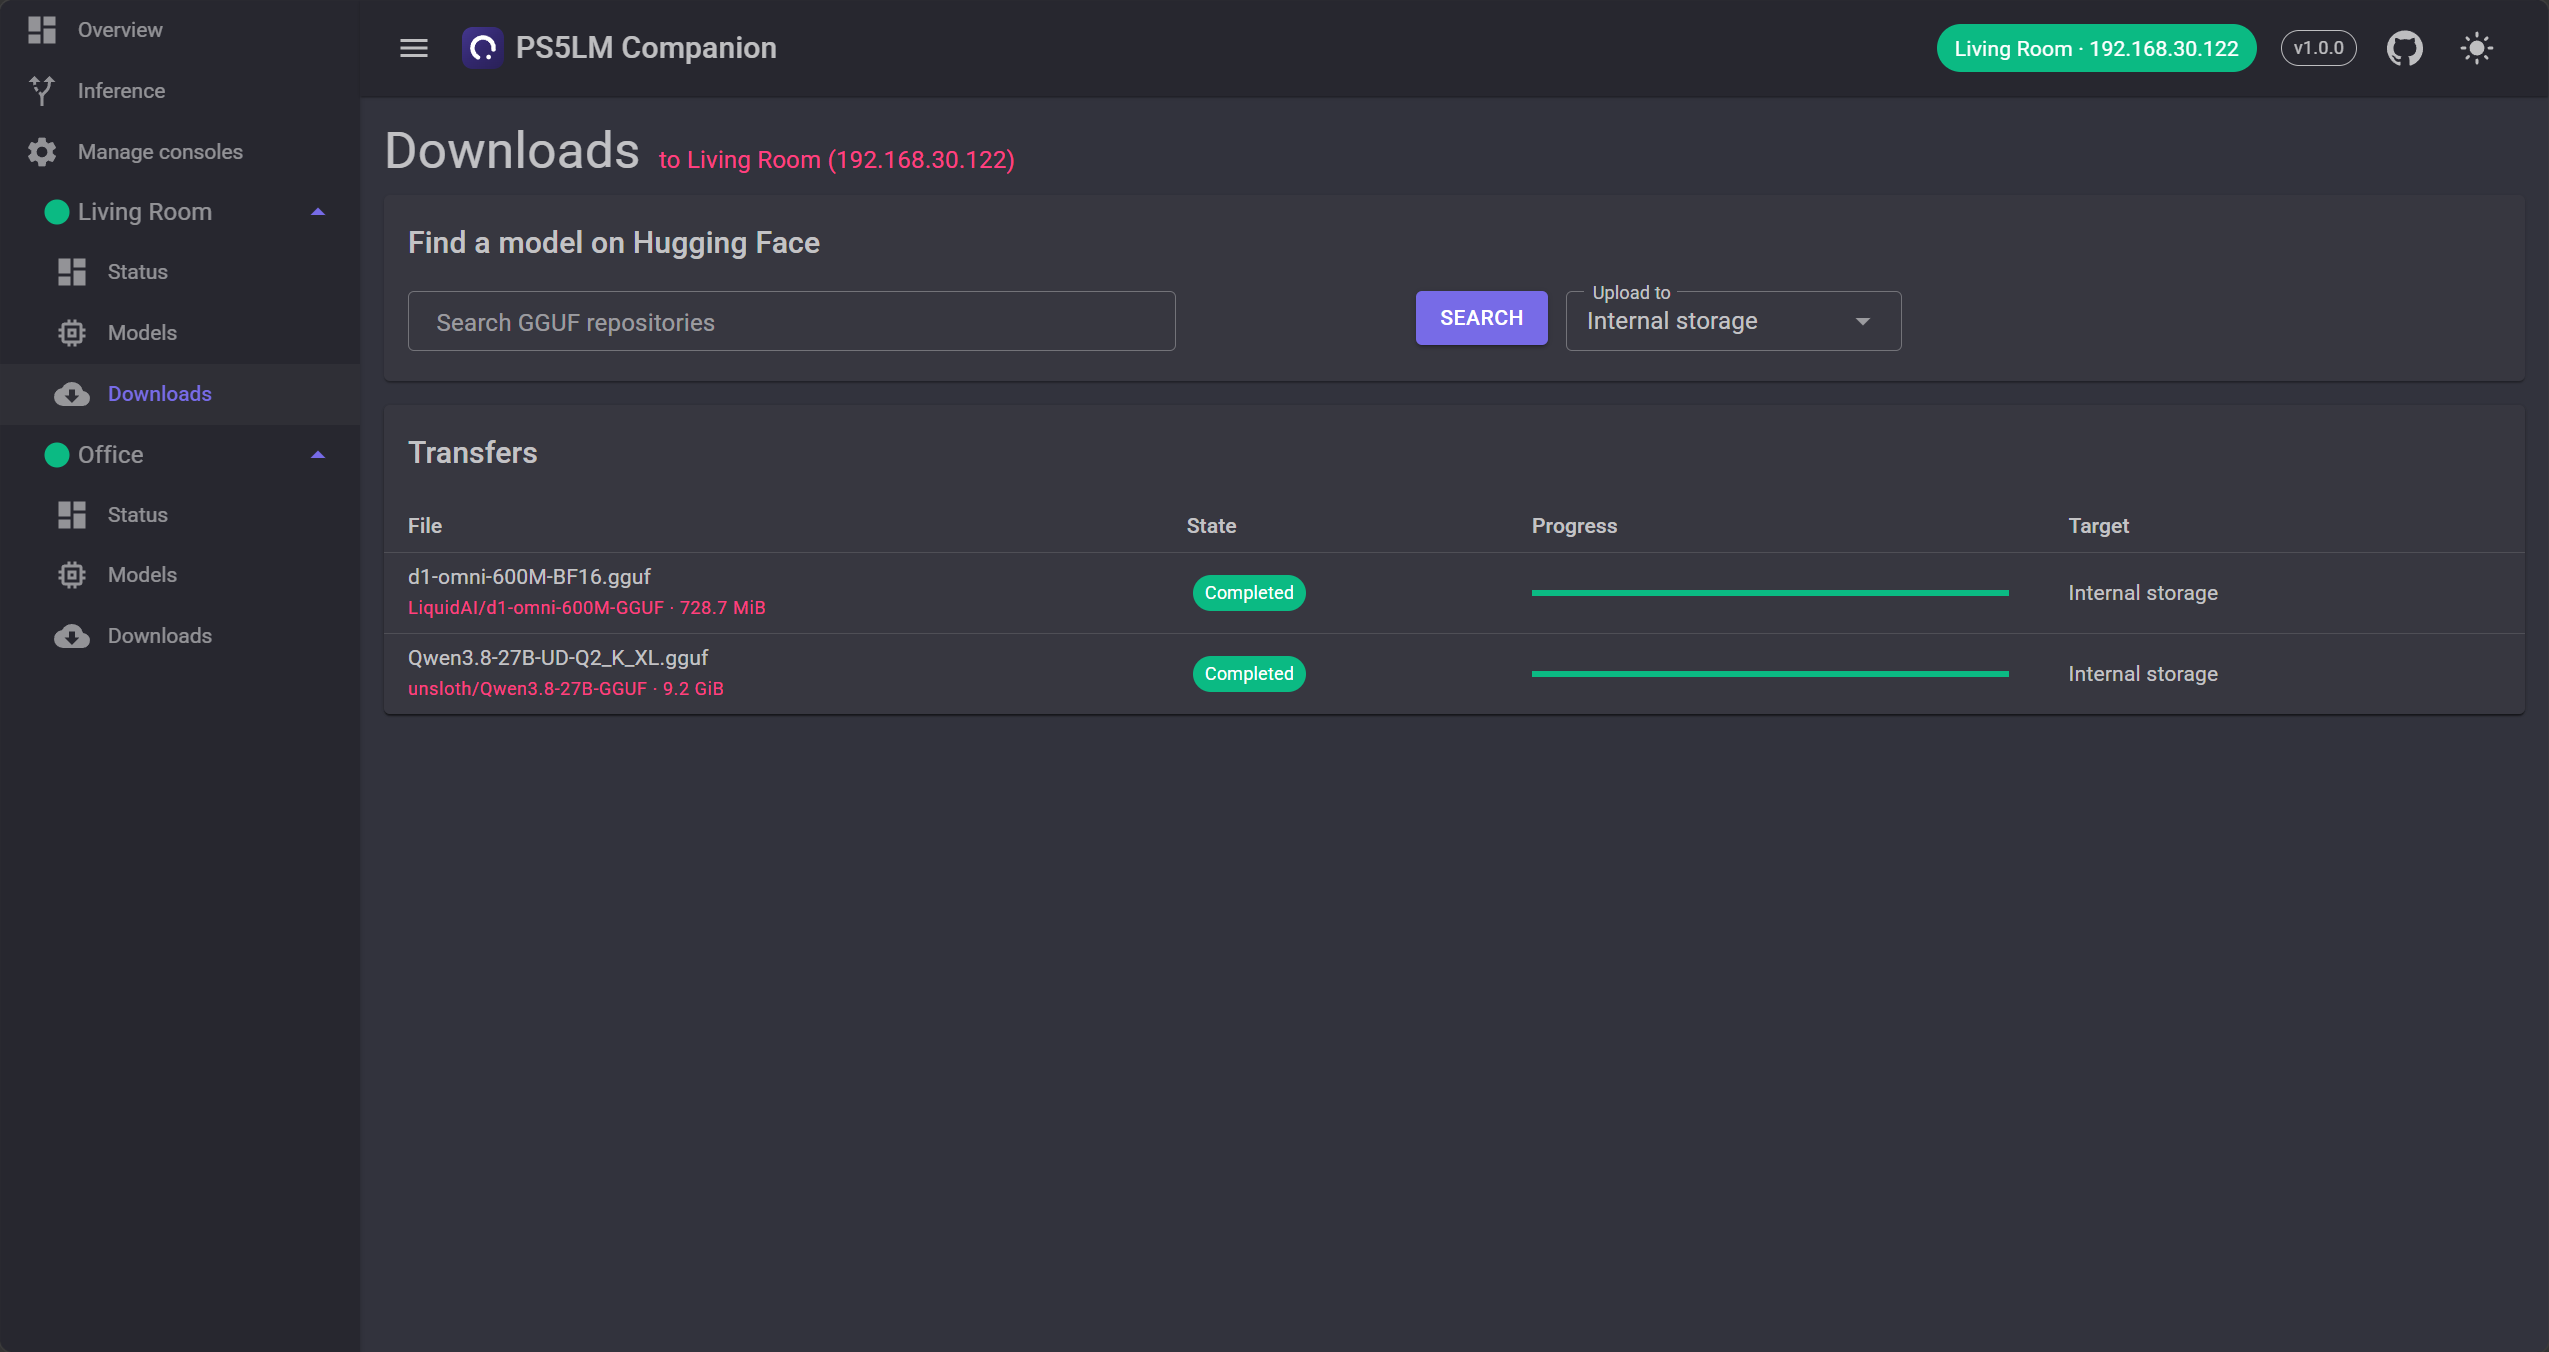
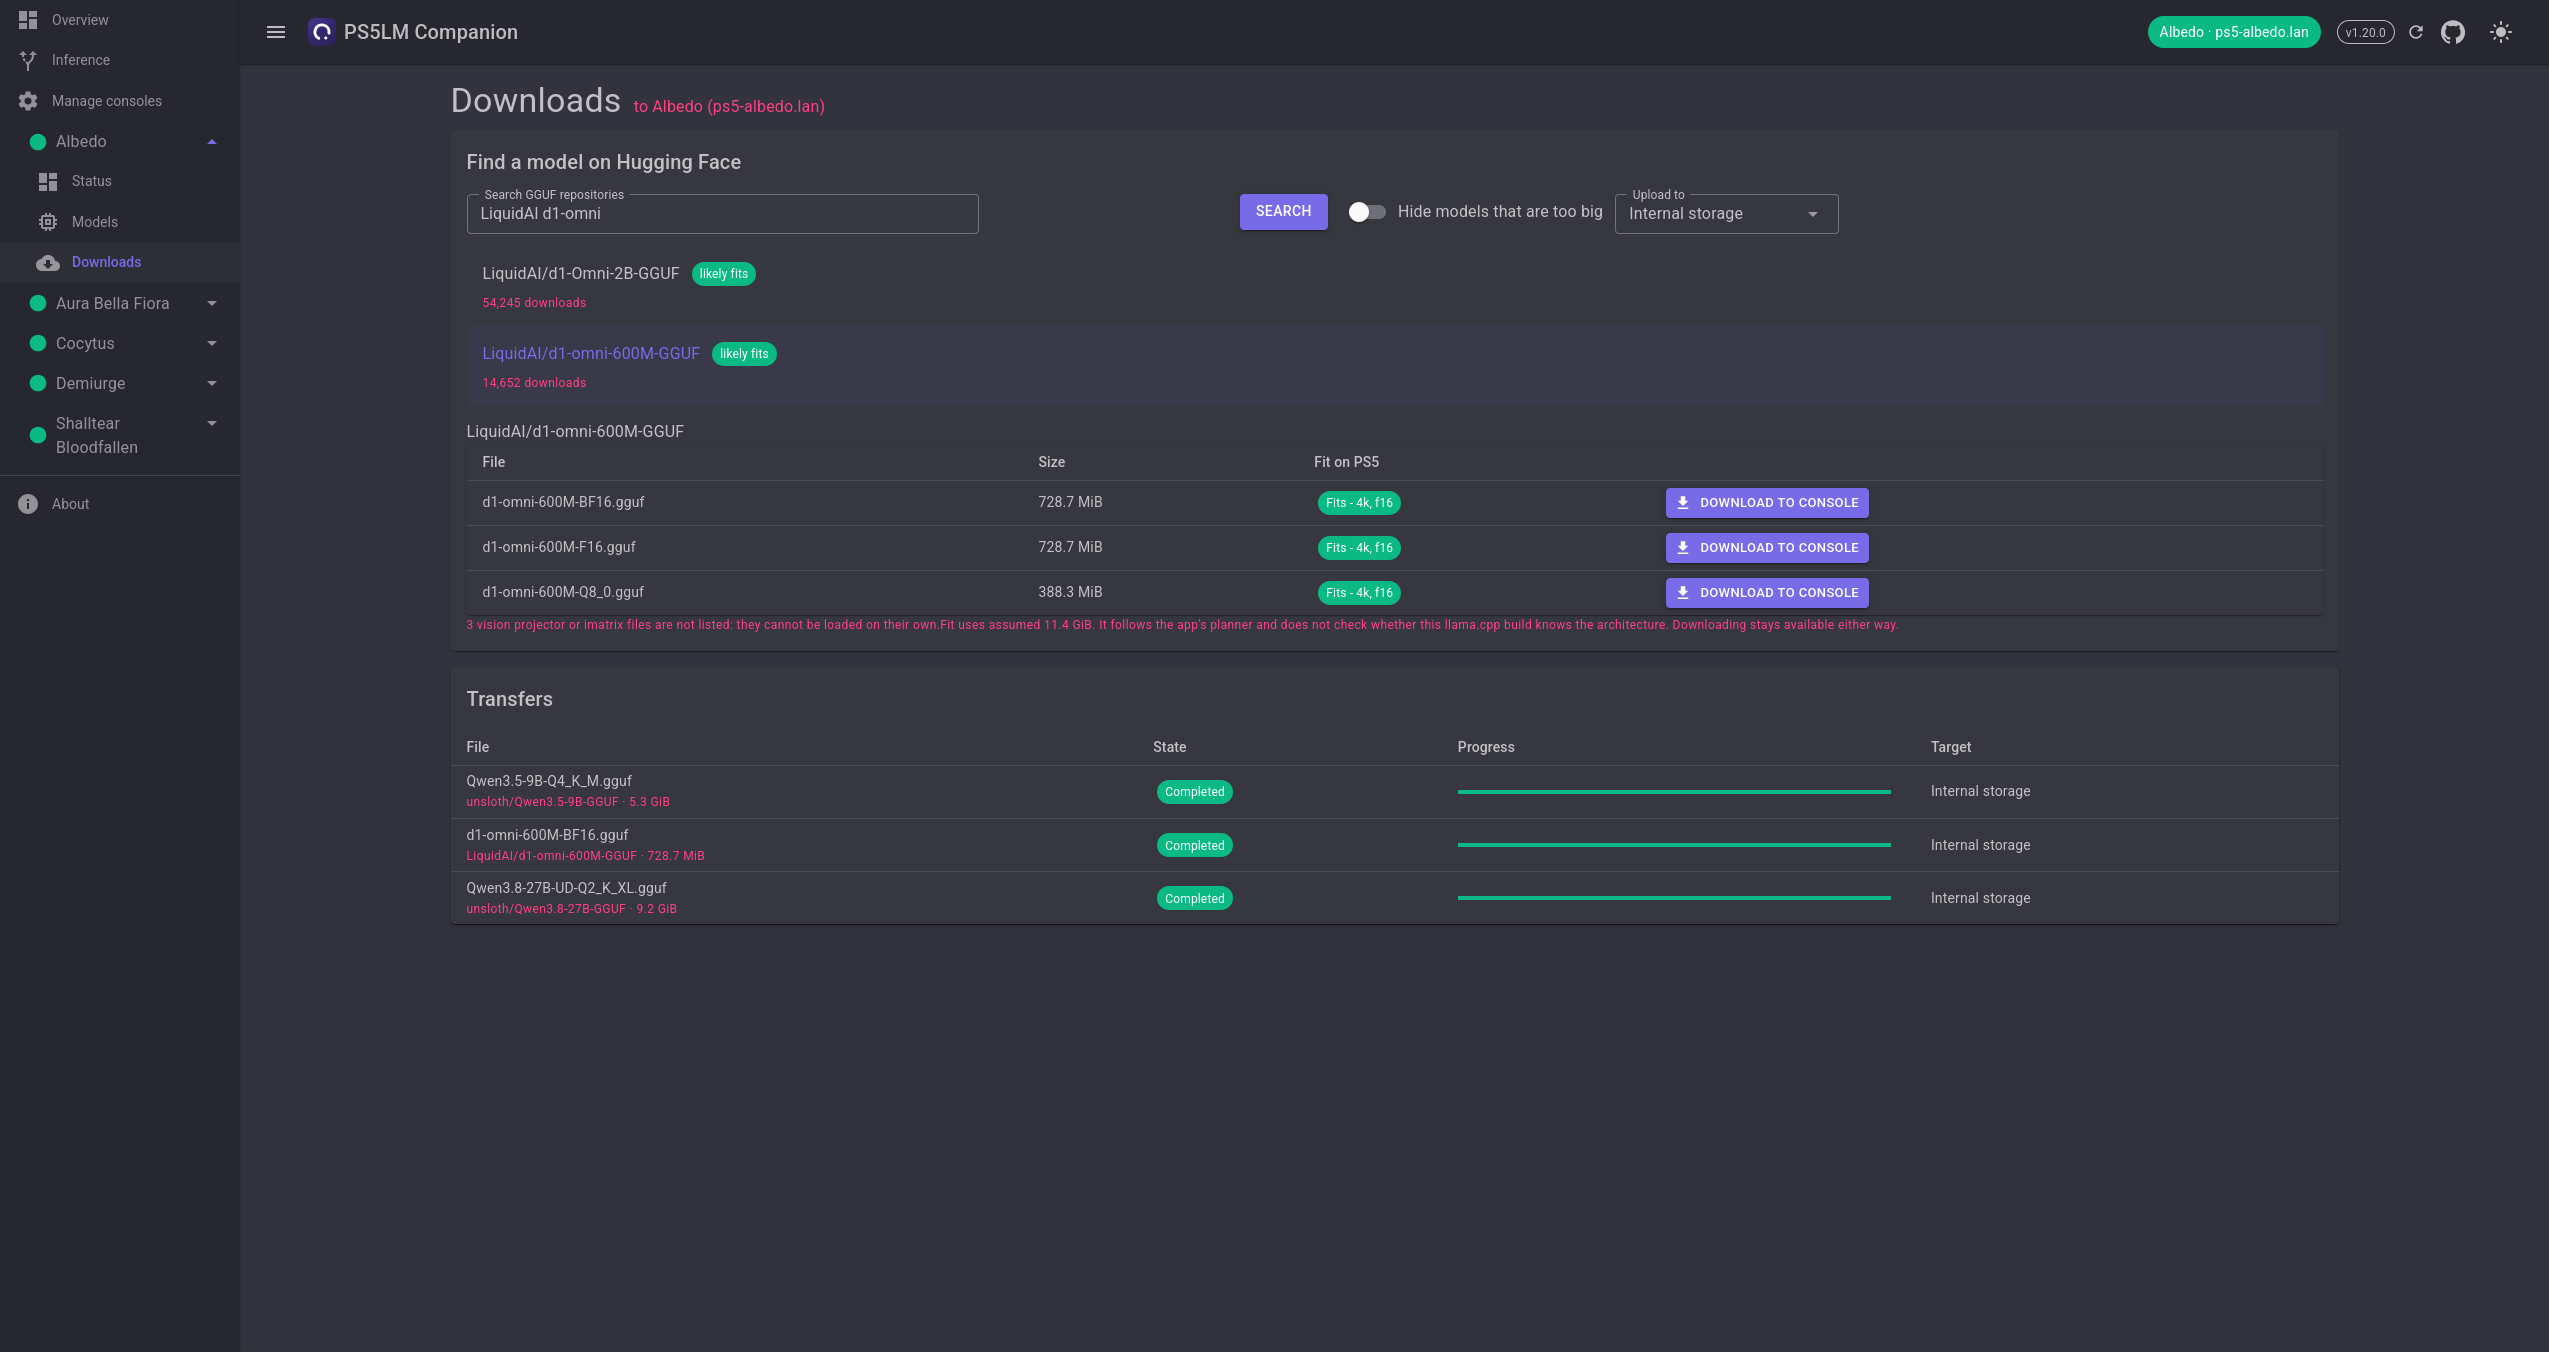
Show the current five-console dashboard in the README and on the project site.

diff --git a/website/index.html b/website/index.html
@@ -9,7 +9,7 @@ layout: default
   <p class="hero-note">Self-hosted · Multi-console · No changes to PS5LM required</p>
   <figure class="hero-screen screenshot">
     <div class="window-bar" aria-hidden="true"><span></span><span></span><span></span><div>PS5LM Companion / Overview</div></div>
-    <img src="{{ '/assets/images/overview.png' | relative_url }}" alt="Companion overview showing two consoles, their connection status, and loaded models" width="2549" height="1352" fetchpriority="high">
+    <img src="{{ '/assets/images/overview.png' | relative_url }}" alt="Companion overview showing five consoles, their connection status, and loaded models" width="2549" height="1352" fetchpriority="high">
     <figcaption>One dashboard. Every console on your network.</figcaption>
   </figure>
   <div class="platform-strip"><span>Built for your setup</span><span>Docker</span><span>Linux</span><span>Windows</span><span>macOS</span><span>Raspberry Pi (64-bit OS)</span></div>
@@ -26,12 +26,21 @@ layout: default
 
 <section class="spotlight wrap" aria-labelledby="downloads-title">
   <div class="spotlight-copy"><p class="eyebrow">From discovery to disk</p><h2 id="downloads-title">Find a model.<br>Let it travel.</h2><p>Search Hugging Face, check the estimated fit, and queue a download. The companion downloads the GGUF and uploads it to your console, with progress along the way.</p><a class="text-link" href="{{ site.repository_url }}/blob/master/docs/downloads.md">How downloads work <span aria-hidden="true">→</span></a></div>
-  <figure class="screenshot"><img src="{{ '/assets/images/downloads.png' | relative_url }}" alt="Downloads page with Hugging Face model search and completed console transfers" loading="lazy" width="2549" height="1352"></figure>
+  <figure class="screenshot"><img src="{{ '/assets/images/downloads.png' | relative_url }}" alt="Downloads page with Hugging Face fit guidance and completed console transfers" loading="lazy" width="2549" height="1352"></figure>
 </section>
 
 <section class="spotlight reverse wrap" aria-labelledby="inference-title">
   <div class="spotlight-copy"><p class="eyebrow">Local AI, a familiar API</p><h2 id="inference-title">Several consoles.<br>One endpoint.</h2><p>The optional inference gateway brings consoles running the same model into a pool. Connect through an OpenAI/Anthropic-compatible endpoint, with conversation affinity to help reuse the prompt cache.</p><a class="text-link" href="{{ site.repository_url }}/blob/master/README.md#inference-gateway">Explore the inference gateway <span aria-hidden="true">→</span></a></div>
   <figure class="screenshot"><img src="{{ '/assets/images/inference.png' | relative_url }}" alt="Inference dashboard showing model pools and the consoles serving each alias" loading="lazy" width="2549" height="1352"></figure>
+</section>
+
+<section class="section wrap" id="tour" aria-labelledby="tour-title">
+  <div class="section-heading"><p class="eyebrow">Around the dashboard</p><h2 id="tour-title">Status, models, and the fleet.</h2><p>Each console keeps its own status, model library, and transfer queue. Add another one whenever the network grows.</p></div>
+  <div class="tour-grid">
+    <figure class="screenshot"><img src="{{ '/assets/images/status-health.png' | relative_url }}" alt="Status page showing the PS5LM app version and verified payloads" loading="lazy" width="2549" height="1352"><figcaption>Check the app, its version, and the payloads it depends on.</figcaption></figure>
+    <figure class="screenshot"><img src="{{ '/assets/images/models.png' | relative_url }}" alt="Models page with auto-load, the default model, and load, copy, and delete controls" loading="lazy" width="2549" height="1352"><figcaption>Choose what loads at startup, then load, copy, or delete a model.</figcaption></figure>
+    <figure class="screenshot"><img src="{{ '/assets/images/consoles.png' | relative_url }}" alt="Manage consoles page listing the fleet with test, edit, and remove actions" loading="lazy" width="2549" height="1352"><figcaption>Test, edit, or remove consoles without restarting.</figcaption></figure>
+  </div>
 </section>
 
 <section class="start-section" id="start" aria-labelledby="start-title">

diff --git a/website/assets/style.css b/website/assets/style.css
@@ -219,6 +219,16 @@ p {
 .screenshot img {
   width: 100%;
 }
+.tour-grid {
+  display: grid;
+  grid-template-columns: repeat(3,1fr);
+  gap: 22px;
+}
+.tour-grid figcaption {
+  padding: 12px 16px 14px;
+  font-size: 13px;
+  color: var(--muted);
+}
 .hero-screen figcaption {
   padding: 12px 20px;
   font-size: 12px;
@@ -457,6 +467,9 @@ p code {
   .feature-grid {
     gap: 22px;
   }
+  .tour-grid {
+    grid-template-columns: 1fr;
+  }
   .quickstart {
     gap: 30px;
     grid-template-columns: 1fr 1.3fr;
@@ -528,7 +541,7 @@ p code {
   .section-heading {
     margin-bottom: 30px;
   }
-  .feature-grid,.spotlight,.spotlight.reverse,.quickstart,.next-steps,.guide-grid {
+  .feature-grid,.spotlight,.spotlight.reverse,.quickstart,.next-steps,.guide-grid,.tour-grid {
     grid-template-columns: 1fr;
   }
   .feature-grid {

diff --git a/README.md b/README.md
@@ -17,13 +17,14 @@ Headless web dashboard that manages models and monitors a PS5 running PS5LM or P
 ## Screenshots
 
 <p align="center">
-  <img src="assets/screenshots/msedge_eJ19bRgB1q.png" width="49%" alt="Overview: two consoles, both ready, with the loaded model">
-  <img src="assets/screenshots/msedge_UwjvgRkSjN.png" width="49%" alt="Status: the PS5LM app and the payload checks">
-  <img src="assets/screenshots/msedge_2fgpuASzZH.png" width="49%" alt="Status: sensors, generation and storage">
-  <img src="assets/screenshots/msedge_vNaQqqDb5e.png" width="49%" alt="Models: load, unload and delete">
-  <img src="assets/screenshots/msedge_bZcXZkHj5t.png" width="49%" alt="Downloads: Hugging Face search and completed transfers">
-  <img src="assets/screenshots/msedge_x756rKPw9g.png" width="49%" alt="Inference: pools and which consoles serve each alias">
-  <br><sub>Overview, Status, Models, Downloads and Inference.</sub>
+  <img src="assets/screenshots/overview.png" width="49%" alt="Overview: five consoles, all ready, with the loaded model">
+  <img src="assets/screenshots/status-health.png" width="49%" alt="Status: the PS5LM app, its version, and the payload checks">
+  <img src="assets/screenshots/status-telemetry.png" width="49%" alt="Status: generation, sensors and storage">
+  <img src="assets/screenshots/models.png" width="49%" alt="Models: auto-load, the default model, and load, copy and delete">
+  <img src="assets/screenshots/downloads.png" width="49%" alt="Downloads: Hugging Face fit guidance and completed transfers">
+  <img src="assets/screenshots/inference.png" width="49%" alt="Inference: a pool and which consoles serve its alias">
+  <img src="assets/screenshots/consoles.png" width="49%" alt="Manage consoles: the fleet, with test, edit and remove">
+  <br><sub>Overview, Status, Models, Downloads, Inference and Manage consoles.</sub>
 </p>
 
 ## About

diff --git a/website/README.md b/website/README.md
@@ -49,9 +49,12 @@ fetch the same locked versions from RubyGems.
 All local links and assets use Jekyll URL filters. Update these values if the
 repository is renamed, forked, or moved to a custom domain.
 
-Images in `assets/images` are snapshots of the application logo and the overview,
-downloads, and inference screenshots from the repository. Refresh them when the
-dashboard screenshots change. Edit content in `index.html`, the shared shell in
+Images in `assets/images` are the application logo and copies of the dashboard
+screenshots in `assets/screenshots`: overview for the hero, downloads and
+inference for the feature sections, and status, models, and consoles for the
+dashboard tour. Refresh both copies together. Capture the live dark-theme
+dashboard at 2549×1352 with the navigation drawer open, and use descriptive
+filenames. Edit content in `index.html`, the shared shell in
 `_layouts/default.html`, and presentation in `assets/style.css`.
 
 ## Deployment
